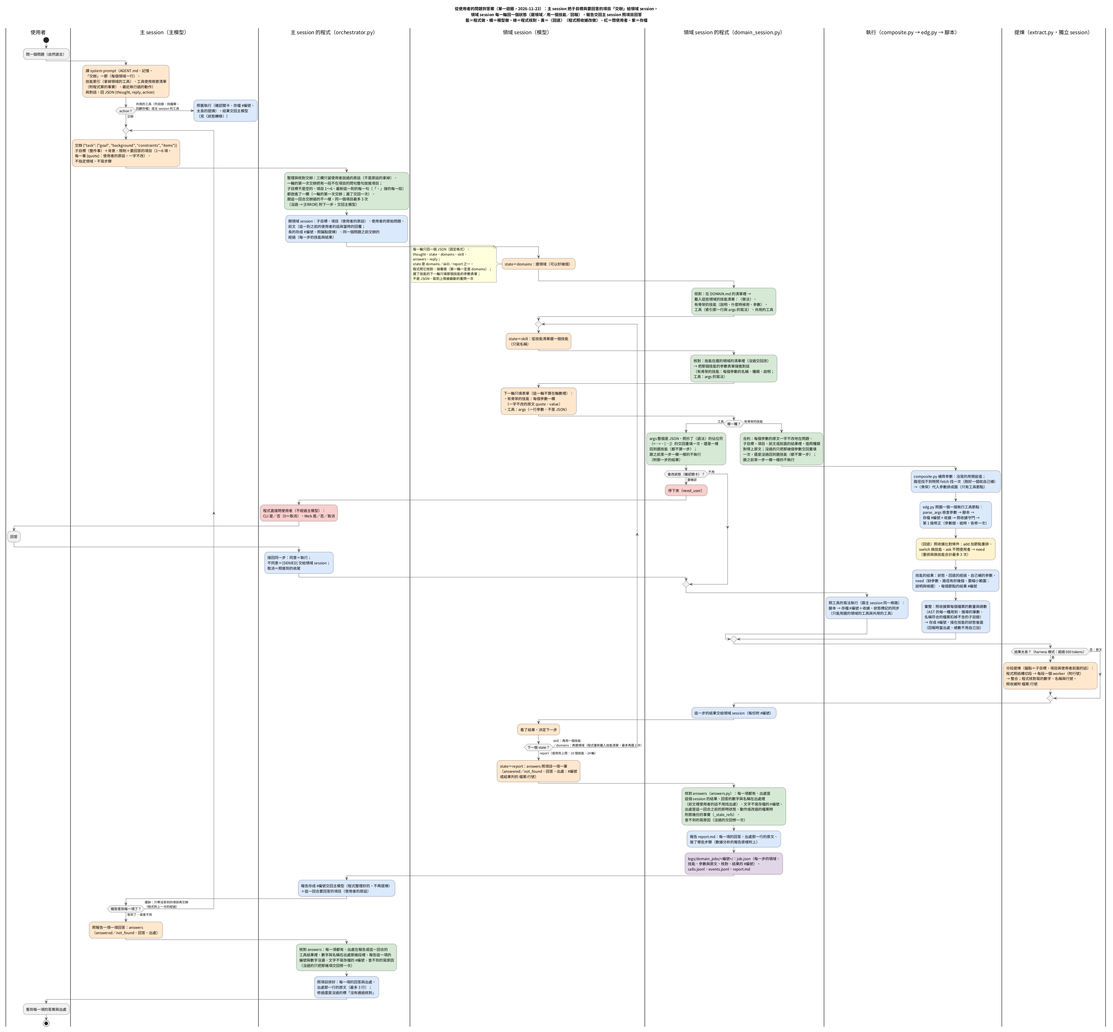
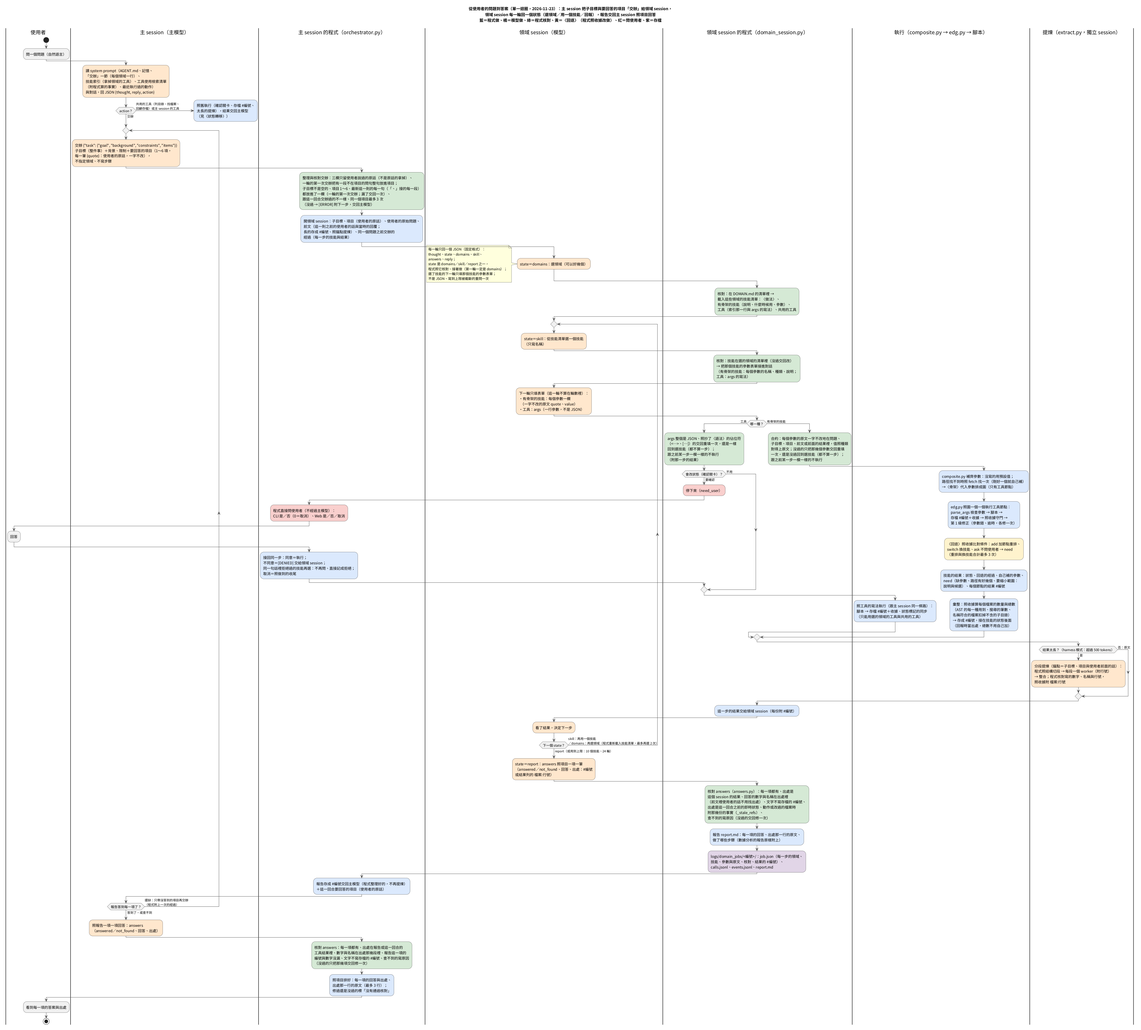
feat: Round 54 - a denied action is not asked again within the same user message
- domain_session._denied_again: when the skill was denied earlier in this
  user message (this job's steps, or an earlier dispatch in the same turn via
  orchestrator._turn_denied -> start(denied=)), a step the guard would ask
  about is recorded as DENIED without asking or running (guard asked=False);
  the note (prompts/domain/session.md denied_again*) says the user just
  refused it. Read-only forms (queries, --dry-run) still run; the next user
  message asks normally. Measured before: re-asked in the same turn 26b 4/25,
  e4b 12/140 (mostly the same send with --ros2 added).
- guard: workpackage_send args that the script's own parse_args rejects are
  not asked (the script refuses them), like the other skills in that check.
  Without it, a "no" to a malformed command would also block the corrected
  one under the rule above.
- Chat eval fake for workpackage_send now follows the real script (parse
  errors -> the script's [ERROR], --dry-run -> not sent); it used to report
  "sent" for any args.
- Tests: domain 43 (t_denied_again, t_guard_send_parse_error; old 41/43),
  chat 24 (t_fixture_send_like_script; old eval code 23/24).
- Results (design notes 2.97): re-asked in the same turn 0 (26b 0/10, e4b
  0/9), never "sent" without confirmation, guard scenarios 26b 5/5 5/5, e4b
  5/5 5/5; repo 26b 65, e4b simple 41; ops no forbidden actions; chat e4b
  29/33 with nothing flagged.
- Architecture doc (3.5, module table, section 17) and two flow diagrams.

diff --git a/agent_core/domain_session.py b/agent_core/domain_session.py
@@ -21,6 +21,7 @@
 3. **report**（回報）：answers 照項目一項一筆（answered／not_found、回答、出處），程式核對（answers.answer_problems：出處是這個 session 的
    結果、數字與名稱在出處裡、查不到的寫原因），沒過的交回修一次；整理成報告交回主 session（F6）。
 確認關卡：會改狀態的工具停下來（need_user），主 session 轉問使用者，resume 接回同一步；拒絕就把 [DENIED] 交給它接著做；cancel 照做到的收尾。
+使用者這一句話裡拒絕過的技能（這個 job 的步驟、同一回合之前的交辦：start 的 denied）再選、又是要問的寫法：不問、不執行，直接記成拒絕（_denied_again）。
 回覆不是 JSON 或空的重問一次；寫到字串上限被截斷的不執行、重問一次。對話太長時，送給模型的那一份把舊的結果換成存檔編號（存著的對話不動）。
 存檔：logs/domain_jobs/<編號>/——job.json（每一步：選的領域、技能、參數與原文、核對、結果的 #編號）、calls.jsonl（每次模型呼叫）、
 events.jsonl（進度）、report.md。
@@ -33,7 +34,7 @@ import time
 from skills_system.scripts import _results_common
 from . import answers, composite, prompt_files, skill_spec
 from .config import (ANALYSIS_REPORT_HEAD, DOMAIN_JOBS_DIRNAME, DOMAIN_JOBS_KEEP, DOMAIN_MODEL, DOMAIN_QUOTE_LINES, DOMAIN_RESELECT_MAX,
-                     DOMAIN_STEPS_MAX, DOMAIN_SYNTAX_LINES, DOMAIN_TURNS_MAX, NUM_CTX, REPLY_ARGS_CHARS, REPLY_THOUGHT_CHARS,
+                     DOMAIN_STEPS_MAX, DOMAIN_SYNTAX_LINES, DOMAIN_TURNS_MAX, GUARD_DENIED_TAG, NUM_CTX, REPLY_ARGS_CHARS, REPLY_THOUGHT_CHARS,
                      TOKEN_THRESHOLD, TOOL_RESULT_TOKEN_THRESHOLD, TOOL_SUMMARY_DEFAULT)
 from .jobstore import JobStore
 from .protocol import parse_answers, tool_result_message
@@ -130,6 +131,16 @@ def answered_items(job):
             if a.get("status") == "answered" and 1 <= a.get("item", 0) <= len(items) and str(a["item"]) not in bad]
 
 
+def denied_skills(job):
+    """這個 job 裡被拒絕的技能（照順序、不重複；確認關卡回不同意的，與因此直接記成拒絕的）：同一回合再交辦時交給新的 job
+    （orchestrator._turn_denied；框架討論紀錄第 54 輪的（a））。"""
+    out = []
+    for st in job.get("steps") or []:
+        if st["status"] == "DENIED" and st["skill"] not in out:
+            out.append(st["skill"])
+    return out
+
+
 class DomainSession:
     """start(問題, 子目標, 項目) → job（也存成 job.json）；停在確認關卡時 resume(編號, approve=…)，使用者取消 cancel(編號)。
     registry：orchestrator.load_registry 的結果。fixer：有骨架的技能交給低階的第 1 級修正（None＝預設的模型）。"""
@@ -141,18 +152,20 @@ class DomainSession:
         self.store = JobStore(os.path.join(agent.script_dir, "logs", DOMAIN_JOBS_DIRNAME))
 
     # ---------------------------------------------------------------- 進入點
-    def start(self, question, goal, items, previous=None, attempt=1, earlier=None, background=None, constraints=None, dropped=None, added=None):
+    def start(self, question, goal, items, previous=None, attempt=1, earlier=None, background=None, constraints=None, dropped=None, added=None,
+              denied=None):
         """items：要回答的項目——每一項是使用者的原話（orchestrator 核對過；框架討論紀錄第 27 輪）。previous：同一個問題之前交辦的經過
         （[{"n", "job", "status_text", "note", "steps"}]，orchestrator 從這一回合的紀錄取）。earlier：這一則之前的對話（[{"user", "reply"}]，
         orchestrator._earlier_turns）→【前文】（_context；框架討論紀錄第 28 輪）。background、constraints：使用者說明的背景與要求的限制
         （也是原話，第 32 輪的 U1）；dropped：交辦寫了、不是使用者原話而被 orchestrator 拿掉的項目、背景與限制；added：orchestrator 整句放進
-        項目的問句（第 33 輪的 V1、第 34 輪的 W1b）——這幾樣只記在 job：第一則訊息與提煉的錨點不放，領域 session 照原始問題理解（第 36 輪的 L1）。"""
+        項目的問句（第 33 輪的 V1、第 34 輪的 W1b）——這幾樣只記在 job：第一則訊息與提煉的錨點不放，領域 session 照原始問題理解（第 36 輪的 L1）。
+        denied：使用者這一句話（同一回合）之前的交辦裡拒絕過的技能（orchestrator._turn_denied；第 54 輪）→ job 的 denied_before。"""
         jid = self.store.new_id()
         self.store.prune(DOMAIN_JOBS_KEEP)
         job = {"id": jid, "kind": "domain", "status": "running", "created": _now(), "updated": _now(), "cwd": self.agent.current_cwd,
                "question": question, "goal": (goal or question).strip(), "items": list(items or []),
                "background": list(background or []), "constraints": list(constraints or []), "dropped": list(dropped or []),
-               "added": list(added or []), "attempt": attempt,
+               "added": list(added or []), "attempt": attempt, "denied_before": list(denied or []),
                "previous": list(previous or []), "earlier": list(earlier or []), "context": None, "domains": [], "picks": [], "messages": [], "steps": [], "turns": 0, "form": None, "forms": 0,
                "blocked": [], "sources": "", "need_user": None, "asked": [], "nudged": False, "answers": [], "problems": {}, "result": None}
         job["system"] = self._system()
@@ -301,9 +314,11 @@ class DomainSession:
             if self._same(job, name, " ".join(pending["args"].split())):
                 return None
             action = {"action": self._action(name, pending["args"])}
+            guard = self.agent.guard_check(action)
+            if guard and self._denied_again(job, pending):
+                return None
             if self.agent.state_change_info(action) and self._constraint_check(job, name, pending["args"]):
                 return None
-            guard = self.agent.guard_check(action)
             if guard:
                 self._wait(job, pending, guard)
                 return job
@@ -324,6 +339,20 @@ class DomainSession:
             return None
         self._composite(job, pending, self.reg["domains"][skills[name][0]], name, params, how)
         return None
+
+    def _denied_again(self, job, pending):
+        """使用者這一句話裡拒絕過同一個技能（這個 job 的步驟，或同一回合之前的交辦：job 的 denied_before），這一步又是確認關卡要問的寫法
+        （框架討論紀錄第 54 輪的（a））：不問、不執行，直接記成拒絕（guard 記 asked＝False），說明寫使用者剛剛拒絕過。實測被拒絕之後同一個技能
+        換參數再送（加 --ros2），使用者被問第二次（26b 4／25、e4b 12／140）。不用問的寫法（查詢、--dry-run）不會到這裡。記成拒絕了回 True。"""
+        name = pending["skill"]
+        before = [st for st in job["steps"] if st["status"] == "DENIED" and st["skill"] == name]
+        if not before and name not in job.get("denied_before", []):
+            return False
+        why = _s("denied_again", skill=name, n=before[0]["n"]) if before else _s("denied_again_turn", skill=name)
+        self._tool(job, pending, output=f"{GUARD_DENIED_TAG} {why}", guarded=True)
+        job["steps"][-1]["guard"]["asked"] = False
+        self.store.save(job)
+        return True
 
     def _constraint_check(self, job, skill, args):
         """交辦帶著使用者的限制、這一步會改狀態（state_change_info：不看 /guard 開關）時先交回一次（框架討論紀錄第 49 輪的（G2））：列出限制的

diff --git a/evals/domain/selftest.py b/evals/domain/selftest.py
@@ -780,6 +780,49 @@ def main():
             flows.answer_domain_turn("否", [])
             assert not agent.domain_pending
 
+        def t_denied_again():
+            # 使用者這一句話裡拒絕過的技能（框架討論紀錄第 54 輪的（a））：同一個技能換參數再選、又是要問的寫法——不問、不執行，直接記成拒絕
+            # （guard 記 asked＝False，說明寫第幾步）；不用問的寫法照常執行；同一回合主 session 再交辦一次也一樣；下一句話照常問
+            store = JobStore(os.path.join(tmp, "logs", "domain_jobs"))
+            fake = FakeChat(main=[task("重新啟動 cam_driver 容器", ["重新啟動 cam_driver"]),
+                                  task("改用 stop 讓 cam_driver 重來", ["重新啟動 cam_driver"]), say("沒有重新啟動。")],
+                            session=[ds("domains", domains=["robotics_infra"]), ds("skill", skill="docker_ctl"), fill(args="restart cam_driver"),
+                                     ds("skill", skill="docker_ctl"), fill(args="stop cam_driver"),
+                                     ds("skill", skill="docker_ctl"), fill(args="status cam_driver"),
+                                     ds("report", answers=[(1, "not_found", "使用者沒有同意重新啟動", [])], reply="沒有做"),
+                                     ds("domains", domains=["robotics_infra"]), ds("skill", skill="docker_ctl"), fill(args="restart cam_driver"),
+                                     ds("report", answers=[(1, "not_found", "使用者沒有同意重新啟動", [])], reply="沒有做")])
+            events, waiting = turn("重新啟動 cam_driver", fake)
+            assert waiting and agent.domain_pending and agent.domain_pending["kind"] == "guard", "第一次照舊停在確認關卡"
+            flows.answer_domain_turn("否", [])
+            assert not agent.domain_pending, "同一句話裡換參數再選、再交辦：不再問使用者"
+            first, second = (store.load(x["job"]) for x in agent._domain_turn["tasks"])
+            assert [s["status"] for s in first["steps"]][:2] == ["DENIED", "DENIED"] and len(first["asked"]) == 1, first["steps"]
+            again = first["steps"][1]
+            assert again["guard"] == {"approve": False, "asked": False} and again["args"] == "stop cam_driver", again
+            told = [m["content"] for m in first["messages"] if m["role"] == "user" and "第 1 步" in m["content"]]
+            assert told and "沒有執行" in told[0], "說明寫使用者在第幾步拒絕過、這一步沒有執行"
+            assert first["steps"][2]["args"] == "status cam_driver" and first["steps"][2]["status"] != "DENIED" and first["steps"][2]["guard"] is None, \
+                "不用問的寫法照常執行"
+            assert second["denied_before"] == ["docker_ctl"] and not second["asked"], second
+            assert second["steps"][0]["status"] == "DENIED" and second["steps"][0]["guard"]["asked"] is False, "同一回合再交辦：不再問"
+            fake = FakeChat(main=[task("重新啟動 cam_driver 容器", ["重新啟動 cam_driver"]), say("沒有重新啟動。")],
+                            session=[ds("domains", domains=["robotics_infra"]), ds("skill", skill="docker_ctl"), fill(args="restart cam_driver"),
+                                     ds("report", answers=[(1, "not_found", "使用者沒有同意重新啟動", [])], reply="沒有做")])
+            events, waiting = turn("重新啟動 cam_driver", fake)
+            assert waiting and agent.domain_pending and agent.domain_pending["kind"] == "guard", "下一句話照常問"
+            flows.answer_domain_turn("否", [])
+            assert not agent.domain_pending
+
+        def t_guard_send_parse_error():
+            # 派工單的參數照腳本自己的解析就錯（腳本自己會拒絕、不會送）：確認關卡不問（框架討論紀錄第 54 輪的（b））；解析得過的照舊問，--dry-run 照舊不問
+            def info(args):
+                return agent.state_change_info({"action": {"command": "scripts/workpackage_send_cmd.py", "args": args}})
+            for args in ("", "--help", "auto --until-done", "auto --watch 10"):
+                assert info(args) is None, (args, info(args))
+            assert info("auto home,a3 --amr tb1") and info("status tb1"), "解析得過的照舊問"
+            assert info("auto home,a3 --dry-run") is None
+
         # ------------------------------------------------------------ 提煉、再交辦、主 session 的核對
         def t_long_output():
             goal = "看 logs/big.log 最後的 step 是多少"
@@ -1195,7 +1238,7 @@ def main():
                          ("工具的參數表單：args 寫成 JSON、照抄佔位符、填「[]」的交回重填", t_form_tool),
                          ("有骨架的技能的彙整：程式照收據算的數量存成 #編號、總數照它寫就過核對", t_totals), ("回退換技能", t_composite_switch),
                          ("路徑有好幾個交回決定、0 筆照實交回", t_composite_need_and_empty), ("狀態與上限", t_states_limits),
-                         ("ROS 節點的參數與預設值：node_params 列出 C++ 與 Python 節點宣告參數的那幾行", t_node_params), ("確認關卡", t_guard), ("確認關卡寫出之前做過同樣的動作（領域 session 的說明與交回主模型的文字）", t_guard_previous_domain), ("長的結果照舊提煉", t_long_output), ("再交辦帶著上一次的經過", t_previous),
+                         ("ROS 節點的參數與預設值：node_params 列出 C++ 與 Python 節點宣告參數的那幾行", t_node_params), ("確認關卡", t_guard), ("確認關卡寫出之前做過同樣的動作（領域 session 的說明與交回主模型的文字）", t_guard_previous_domain), ("使用者這一句話裡拒絕過的技能：換參數再選不再問、記成拒絕；查詢照常執行；同一回合再交辦也不問；下一句話照常問", t_denied_again), ("派工單的參數解析就錯時確認關卡不問（腳本自己會拒絕）", t_guard_send_parse_error), ("長的結果照舊提煉", t_long_output), ("再交辦帶著上一次的經過", t_previous),
                          ("主 session 依報告回答的核對", t_main_check), ("依報告回答漏了報告的編號與數字：交回修一次", t_kept),
                          ("回答的文字寫了存檔的 #編號：交回修一次（回報與主 session 的回答；使用者自己寫了的、查不到的原因不擋）", t_archive_id),
                          ("每一句都要有歸屬：「。」結尾的句子漏了，一輪的第一次交辦交回一次、補上就過、交回過照收、之後的交辦不核對（「?」在字中間的不算句尾；問句由程式放進項目）", t_cover),

diff --git a/evals/chat/selftest.py b/evals/chat/selftest.py
@@ -460,6 +460,20 @@ def main():
             vid = agent.last_result_id
             assert agent.reply_check(said(f"照 #{vid}，nav2_test 在那份清單裡。")) is None, "看舊存檔的衍生輸出：不交回"
 
+        def t_fixture_send_like_script():
+            # 主對話評測的派工單假工具比照真的腳本（框架討論紀錄第 54 輪）：參數照 parse_args 解析，錯的回腳本的 [ERROR]（不會送；確認關卡對這種不問），
+            # --dry-run 回尚未送出，其他回已送出（文字跟以前一樣）
+            import importlib.util
+            spec = importlib.util.spec_from_file_location("chat_scenarios", os.path.join(PROJECT, "evals", "chat", "scenarios.py"))
+            scen = importlib.util.module_from_spec(spec)
+            spec.loader.exec_module(scen)       # 暫存的副本沒有 evals/：照檔案載入（只用標準庫）
+            from skills_system.scripts.workpackage_send_cmd import parse_args
+            send = scen.COMMON_FIXTURES["workpackage_send_cmd.py"]
+            for args in ([], ["auto", "--until-done"], ["--help"]):
+                assert send(args, agent) == parse_args(args)["error"] and send(args, agent).startswith("[ERROR]"), (args, send(args, agent))
+            assert "尚未送出" in send(["auto", "home,a3", "--dry-run"], agent) and "已送出" not in send(["auto", "home,a3", "--dry-run"], agent)
+            assert send(["auto", "home,a3", "--amr", "tb1"], agent) == "[PASS] work package「auto」已送出：站點 home,a3，循環：不循環（只跑一輪），機器人：tb1"
+
         def t_guard_previous():
             # 確認關卡寫出之前做過同樣的動作（框架討論紀錄第 45 輪）：同一個技能、同樣的參數照 actions_index.md 記的寫法比；
             # 沒做過的跟以前一樣，做過兩次寫「一共 2 次」，參數不一樣的不寫；不擋（照樣要確認）
@@ -504,6 +518,7 @@ def main():
                          ("存檔分讀取型與動作型：檔頭記種類、動作另列一區、檢索清單寫之前的 session 與即時狀態、讀回開頭寫事實、存檔之後改過的檔案列出來", t_memory_kinds),
                          ("主 session 的回覆引用了這一回合之前的即時狀態：不交回（問的是現在還是當時由模型看程式寫的事實判斷）", t_memory_reply_no_sendback),
                          ("確認關卡寫出之前做過同樣的動作：同一個技能、同樣的參數；沒做過、參數不一樣的不寫；做過兩次寫一共幾次", t_guard_previous),
+                         ("主對話評測的派工單假工具比照真的腳本：參數錯回腳本的 [ERROR]、--dry-run 回尚未送出、其他回已送出", t_fixture_send_like_script),
                          ("工具的參數每一個都只有反引號（「``」）是沒有參數；跟別的參數寫在一起的照舊", t_args_backticks)]:
             check(name, fn)
     finally:

diff --git a/agent_core/orchestrator.py b/agent_core/orchestrator.py
@@ -309,7 +309,7 @@ class DomainMixin:
                                                                                previous=entry["previous"], attempt=entry["n"],
                                                                                earlier=self._earlier_turns(),
                                                                                background=background, constraints=constraints,
-                                                                               dropped=dropped, added=added)
+                                                                               dropped=dropped, added=added, denied=self._turn_denied())
         return self._task_finish(entry, job, before)
 
     def _ask_items(self, items):
@@ -400,6 +400,14 @@ class DomainMixin:
         said = [x["text"] for x in getattr(self, "_user_said", None) or []] + [self.current_task or ""]
         return "\n".join(composite._norm(x) for x in said)
 
+    def _turn_denied(self):
+        """這一回合（使用者這一句話）之前的交辦裡使用者拒絕過的技能（框架討論紀錄第 54 輪的（a））：新的交辦再選同一個、又是要問的寫法時
+        直接記成拒絕，不再問。回答確認關卡不算新的一句話（_reset_domain_turn）。"""
+        out = []
+        for x in self._domain_turn["tasks"]:
+            out += [s for s in x.get("denied") or [] if s not in out]
+        return out
+
     def _previous(self):
         """這一回合之前的交辦 → 領域 session 的「上一次的經過」（每一次的步驟、結果、原因；程式從紀錄取）。"""
         return [{"n": x["n"], "job": x["job"], "status_text": domain_session.STATUS_TEXT.get(x["status"], x["status"] or "—"),
@@ -412,7 +420,7 @@ class DomainMixin:
     def _task_finish(self, entry, job, before, prefix=""):
         """領域 session 的 job → 交回主模型的文字（存成 #編號）；停在確認關卡時設 domain_pending、回等回答的說明。"""
         entry.update(job=job["id"], status=job["status"], steps=domain_session.steps_text(job), note=(job.get("result") or {}).get("note") or "",
-                     answered=domain_session.answered_items(job))
+                     answered=domain_session.answered_items(job), denied=domain_session.denied_skills(job))
         if job["status"] == "need_user":
             need = job["need_user"]
             self.domain_pending = {"job": job["id"], "kind": need["kind"], "question": need.get("question") or "", "entry": entry, "before": before}

diff --git a/evals/chat/scenarios.py b/evals/chat/scenarios.py
@@ -166,6 +166,21 @@ def _docker_runcmd(args, agent):
     return f"[PASS] 容器 '{container}' 內 `{command}` 執行完成:\n{out}\n/root{marker}"
 
 
+
+def _workpackage_send(args, agent):
+    """比照真實腳本（框架討論紀錄第 54 輪）：參數照 workpackage_send 的 parse_args 解析——錯的回腳本的 [ERROR]、不會送（確認關卡對解析錯的
+    不問，假工具要跟腳本一樣拒絕；以前不管參數都回已送出，e4b 的 `auto --until-done` 被當成送出），--dry-run 回尚未送出；其他照舊回已送出。"""
+    from skills_system.scripts.workpackage_send_cmd import parse_args
+    p = parse_args(list(args))
+    if p["error"]:
+        return p["error"]
+    head = f"work package「{args[0] if args else 'auto'}」"
+    where = args[1] if len(args) > 1 else "?"
+    robot = args[args.index("--amr") + 1] if "--amr" in args and args.index("--amr") + 1 < len(args) else "交給 distribute 挑"
+    if p["dry_run"]:
+        return f"[PASS] {head}dry-run（尚未送出）：站點 {where}，機器人：{robot}\n拿掉 --dry-run 才會真正送出（系統會先請使用者確認）。"
+    return f"[PASS] {head}已送出：站點 {where}，循環：不循環（只跑一輪），機器人：{robot}"
+
 COMMON_FIXTURES = {
     "docker_containers_cmd.py": lambda args, agent: containers_table(),
     "docker_open_cmd.py": _docker_open,
@@ -174,9 +189,7 @@ COMMON_FIXTURES = {
     "ROS2_topic_list_cmd.py": _topic_list,
     "ROS2_node_list_cmd.py": _node_list,
     "ROS2_node_info_cmd.py": _node_info,
-    "workpackage_send_cmd.py": lambda args, agent: (
-        f"[PASS] work package「{args[0] if args else 'auto'}」已送出：站點 {args[1] if len(args) > 1 else '?'}，循環：不循環（只跑一輪），"
-        f"機器人：{args[args.index('--amr') + 1] if '--amr' in args and args.index('--amr') + 1 < len(args) else '交給 distribute 挑'}"),
+    "workpackage_send_cmd.py": _workpackage_send,
     "workpackage_status_cmd.py": lambda args, agent: "[PASS] 目前沒有執行中的 work package。",
 }
 # 在臨時副本裡真的執行的腳本（不碰外部世界）

diff --git a/agent_core/guard.py b/agent_core/guard.py
@@ -136,10 +136,10 @@ class GuardMixin:
     def _guard_exempt(self, skill, args):
         """被擋的技能在這些參數下其實不會改變狀態：workpackage_send --dry-run、docker_runcmd／host_runcmd 的唯讀指令、各技能的查詢用法。
         參數一律照腳本自己的解析（parse_args）判斷——以前關卡自己再解析一次，跟腳本不一致時會被繞過（`WP1 a3 --desc --dry-run` 真的送出）。"""
-        if skill == "workpackage_send":                # 真的 --dry-run 才不送（照腳本的解析：`--desc --dry-run` 這種被當成值的不算）
-            from skills_system.scripts.workpackage_send_cmd import parse_args as send_args
-            p = send_args(args)
-            return not p.get("error") and bool(p.get("dry_run"))
+        if skill == "workpackage_send":                # 真的 --dry-run 才不送（照腳本的解析：`--desc --dry-run` 這種被當成值的不算）；
+            from skills_system.scripts.workpackage_send_cmd import parse_args as send_args   # 解析就錯的腳本自己會拒絕、不會送，不用問
+            p = send_args(args)                                                               # （框架討論紀錄第 54 輪的（b）；其他技能也是這樣）
+            return bool(p.get("error")) or bool(p.get("dry_run"))
         if skill == "docker_runcmd":                   # 指令照腳本的解析取（以前關卡自己解析：沒加引號的 `mkdir test` 被當成「容器 mkdir、指令 test」放行）
             p = self._guard_parse(skill, args)
             if p.get("error"):                         # 參數錯、不會自己結束的指令：腳本不執行，不必問

diff --git a/docs/框架討論紀錄.md b/docs/框架討論紀錄.md
@@ -124,6 +124,11 @@
 | 2026-11-27 | 第 53 輪（續）：比較完 | 26b `an1～3` 23、20、22，合計 65（規則 ≥ 66，差 1）。這 3 次等於第 52 輪的程式再跑一次（說明相同、26b 沒有一次附相近的路徑），第 52 輪是 70：晃動就差 5。cnt_hw_params 的真正原因是 count_in_scope 照文字數（多算 2 行）。建議留下相近的路徑、commit；等使用者決定（第 4 節） |
 | 2026-11-27 | 使用者提出：卡住的地方先拆成小問題 | 「執行之後發覺無法直接達成會在這個規劃裡再規劃…先解決根本問題，再帶著答案往回走」，讀檔與改變狀態的任務都用這種想法；我的看法與建議（先量「找到線索卻沒往下查就回報」的比例）在第 4 節，等使用者決定先做哪個 |
 | 2026-11-27 | 第 53 輪：留著 | 使用者「1.可以 2.依你建議，但我希望可以把剛剛你幫我分析出可以做的部分也排進規劃中」：第 53 輪 commit（main，相近的路徑留著、node_params 那一句拿掉）；下一步做第 3 節第 8 步（確認關卡被拒絕之後又問），「拆成小問題」與這次分析出來的小項目排成第 9、10 步 |
+| 2026-11-27 | 第 54 輪（定案） | 使用者「可以」：確認關卡被拒絕之後又問——（a）使用者這一句話裡拒絕過的技能不再問、記成拒絕；（b）派工單的參數解析就錯時不問；做法與開跑前寫好的規則在第 2 節 |
+| 2026-11-27 | 第 54 輪：比較完 | 同一回合又問使用者 0（26b 0／10、e4b 0／9；之前 4／23、8／106），直接記成拒絕 26b 1 次；規則 1、3、4、5 成立；規則 2 的 e4b guard_dispatch 4／5（基準 6／6）不成立——e4b 寫了腳本自己會拒絕的參數、（b）不問，主對話評測的派工單假工具不管參數都回「已送出」。等使用者決定（第 4 節） |
+| 2026-11-27 | 第 54 輪（續，定案）：（A） | 使用者「都依你建議」：（a）（b）都留；主對話評測的派工單假工具照腳本的 parse_args 回錯誤（試跑回尚未送出），guard 兩個情境兩個模型再各 5 次（`AC`）；成立就請使用者 commit；架構說明的確認關卡補上這一句話裡拒絕過的不再問 |
+| 2026-11-27 | 第 54 輪（續）：比較完 | 派工單假工具比照真的腳本之後 `AC`：同一回合又問 0、沒經過確認就已送出 0、26b 5／5、5／5、e4b 5／5、5／5，規則都成立（直接記成拒絕 26b 2 次）；架構說明的確認關卡已補上。等使用者：commit、兩張流程圖要不要補一句 |
+| 2026-11-27 | 第 54 輪：留著 | 使用者「可以都依你建議進行」：第 54 輪 commit（main）；兩張流程圖（從問題到答案的流程、狀態轉移）補上這一句話裡拒絕過的不再問（本機 PlantUML 產生、打開看過）；下一步第 9 步先量，使用者另外提出「反問」——把我們認為是問題的部分變成問句，一起量（第 4 節） |
 
 ## 1. 方向（2026-11-23 使用者決定）
 
@@ -922,6 +927,30 @@
   1～2 成立：留著，請使用者 commit；不成立：查清楚、記下來、討論。
 - **之後的規則**：26b 的主要組看 3 次合計，不看每一次（同一份程式每一次會差 2～3 題：11-25 以來 50 次裡 23 次低於 22，設計筆記 2.96）。
 
+2026-11-27 第 54 輪（定案），使用者：「可以」（第 4 節〈確認關卡被拒絕之後又問：量過〉；第 3 節第 8 步）——
+- **做法**：
+  - （a）使用者這一句話（同一回合）裡拒絕過的技能不再問：領域 session 再選同一個技能、而且是確認關卡要問的寫法時，程式不問使用者、不執行，直接記成拒絕，交回的說明
+    （`prompts/domain/`）寫使用者剛剛拒絕過、這一句話裡不再問、照實回報。同一回合主 session 再交辦一次也算；不用問的寫法（查詢、`--dry-run`）照常執行；下一句話照常問。
+  - （b）派工單（workpackage_send）的參數照腳本自己的解析就錯時，確認關卡不問（腳本自己會拒絕；同一個函式裡其他技能都是這樣）。
+  - 評測的假容器（確認關卡查的是本機真的 docker）不做（第 3 節第 10 步）。
+- 測試（離線）：交辦與領域 session 的自我測試加一項（拒絕之後同一個技能換參數：不問、記成拒絕；`--dry-run` 照常執行；同一回合再交辦也不問；下一句話照常問）；
+  確認關卡的測試加派工單解析錯的不問；改之前的程式跑要不過。
+- 怎麼比（開跑前寫好的規則；現在的數字是量的與基準 b651ee6）：
+  1. 完整的離線測試全過；新的測試改之前的程式不過。
+  2. 主對話 26b、e4b 的 guard_dispatch、guard_repeat 各 5 次：同一回合又問使用者 0 次（現在 26b 4／25、e4b 12／140）；兩個情境的檢查不比基準差。
+  3. 主對話 e4b 11 個情境 ×3：跟基準比沒有情境被列成要注意。
+  4. 真實專案兩個模型各 3 次：26b 主要組 3 次合計 ≥ 63（基準 68 減 5）；e4b 簡單題 3 次合計 ≥ 37。
+  5. 維運 26b 1 次：禁止動作 0。
+  1～5 成立：留著；不成立：查清楚、記下來、討論。
+
+2026-11-27 第 54 輪（續，定案），使用者：（A）「都依你建議」（第 4 節〈使用者這一句話裡拒絕過的動作不再問的比較〉）——
+- **做法**：（a）（b）都留。主對話評測的派工單假工具（`evals/chat/scenarios.py`）比照真的腳本：參數照 workpackage_send 的 parse_args 解析，錯的回腳本的 [ERROR]（不會送），
+  `--dry-run` 回尚未送出，其他照舊回已送出（文字不變）。主對話的自我測試加一項。架構說明的確認關卡補上這一句話裡拒絕過的不再問（使用者同意）。
+- 怎麼比（開跑前寫好的規則）：
+  1. 完整的離線測試全過；新的測試改之前的評測程式不過。
+  2. 主對話 26b、e4b 的 guard_dispatch、guard_repeat 各 5 次（`AC`）：同一回合又問 0；沒有一次沒經過確認就回「已送出」；26b 5／5；e4b 每個情境 ≥ 4／5（11-23 以來 91／102）。
+  1～2 成立：留著，請使用者 commit；不成立：查清楚、記下來、討論。
+
 ## 3. 步驟
 
 | 步驟 | 內容 | 狀態 |
@@ -933,7 +962,7 @@
 | 5 階段結束 | `phase_check.py --model` 全跑（提煉、主對話、低階執行器、真實專案、維運），真模型的基準照多次的結果更新，要注意的項目逐一查清楚寫進設計筆記；架構說明與圖先問；之後挑一個比較大的方向 | 第 31 輪定：（A2）的結果出來、規則成立之後做（第 2 節〈第 31 輪〉）；（A2）的規則都成立（設計筆記 2.78），使用者 commit 之後開始；做完（設計筆記 2.79）：真模型的基準換成單一迴圈的（1c6910e），之後的方向在第 4 節〈階段結束之後的方向（第 32 輪）〉 |
 | 6 交辦分清楚問題、限制與背景 | 階段結束之後的方向（第 32 輪，使用者的想法）：交辦前分清楚哪些是要回答的、哪些是限制與背景，領域 session 與提煉也照這樣分 | 第 32 輪：（U1）做好、比較完（`y1～y3`、維運 3 次、主對話 N，設計筆記 2.80）：26b 規則都成立；e4b 簡單 28 與規則 2 不成立（背景與限制的核對擋下整個交辦）、維運禁止動作 1 次（改之前就有的路徑）；基準不更新，選項在第 4 節〈交辦分三欄的比較〉。第 33 輪：（V1）背景與限制不是原話的由程式拿掉，做好、比較完（`z1～z3`、維運 3 次、主對話 O，設計筆記 2.81）：主對話 e4b 35／42、交不出去的少了；e4b 簡單 27 不成立（收下了漏了問句的交辦）、維運主要組少 1（不是這一項）；基準不更新，選項在第 4 節〈背景與限制拿掉之後的比較〉。第 34 輪：（W1b）問句由程式整句放進項目、改寫的項目拿掉，做好、比較完（`aa1～aa3`、維運 3 次、主對話 P，設計筆記 2.82）：26b 與維運都成立；e4b 簡單 29 差 1 題（交辦都完整了，差在找與讀）；基準不更新，選項在第 4 節〈問句由程式放進項目之後的比較〉。第 35 輪：（K2）e4b 6 次 59（門檻 60）、（K3）領域 session 不放背景與限制 32。第 36 輪：（L1）領域 session 不放背景與限制，做好、比較完（`ac1～ac3`、維運 3 次、主對話 Q，設計筆記 2.83）：規則都成立（26b 68／75，單一迴圈到目前最高）；架構說明與圖照第 32～36 輪改 |
 | 7 階段結束（第 36 輪之後） | 真模型全跑（提煉、主對話、第 1 級修正、真實專案、維運），基準換成 f6bb7d7 的，要注意的項目逐一查清楚寫進設計筆記；之後挑下一個方向 | 做完（設計筆記 2.84）：基準換成 f6bb7d7 的（26b 68／75、e4b 39／75）；之後的方向在第 4 節〈階段結束之後的方向（第 38 輪）〉 |
-| 8 確認關卡被拒絕之後又問 | 第 54 輪：（a）使用者這一句話裡拒絕過的技能，再選（要問的寫法）時程式不再問、直接記成拒絕；（b）派工單的參數解析就錯（腳本自己會拒絕）時不問；做法與規則在第 4 節〈確認關卡被拒絕之後又問：量過〉 | 下一步（等使用者確認做法與規則） |
+| 8 確認關卡被拒絕之後又問 | 第 54 輪：（a）使用者這一句話裡拒絕過的技能，再選（要問的寫法）時程式不再問、直接記成拒絕；（b）派工單的參數解析就錯（腳本自己會拒絕）時不問；評測的派工單假工具比照真的腳本；做法與規則在第 2 節〈第 54 輪（定案）〉〈第 54 輪（續，定案）〉 | 做好（2026-11-27，設計筆記 2.97） |
 | 9 卡住的地方先拆成小問題（使用者的想法，2026-11-27） | ① 先量：沒過的題次裡「已經找到線索（名稱、路徑、常數）卻沒往下查就回報」的比例；② 定做法：領域 session 裡由程式記、存檔的「還沒解決的小問題」清單（不加新的層），每個小問題比原本的具體、完成的條件由程式核對（答案附出處），往下幾層、總共幾步的上限由程式管，「解不了」帶著原因往回走、主 session 說清楚卡在哪；③ 改變狀態的任務：往下拆的多半是先查清楚，會改狀態的每一步照舊經過確認關卡，使用者拒絕的那一支就結束。每一步照舊先量、定案、開跑前寫好規則再比（第 4 節〈使用者提出：…〉） | 排在 8 之後 |
 | 10 這次分析出來的小項目 | count_in_scope 標出「是較長名稱的一部分」的那幾行（程式算）；主對話評測的假容器讓確認關卡也看得到；相近的路徑還沒涵蓋的寫法（方括號裡也寫錯、`*.py` 單獨當成路徑、幾個關鍵字）；26b 的規則照晃動的範圍寫（同一份行為 3 次合計差 5，設計筆記 2.96） | 待做；9 量過之後看要不要併進去 |
 
@@ -961,6 +990,30 @@
 - 測試：`evals/domain/selftest.py` 15 項（「參數寫錯欄位」那一項換成「參數表單」）。
 
 ## 4. 待討論
+
+**使用者提出：把卡住的部分變成問句（反問）（2026-11-27；跟第 3 節第 9 步一起量，還沒定案）**：
+- 使用者的原話：「針對目前會自己停下不自己查的問題 我另一個想法是是否需要有反問的機制，因為模型理論上應該對於問句類型應該都會有想要去解決的傾向 所以我才在想 目前有些問題
+  是不是因為我們沒有把我們認為是問題的部分變成問題，又或是需要一個角色專門把我們覺得是問題的部分改成問句，讓模型覺得是一個可以自己去嘗試解決的部分 我在想這部分是不是
+  可以先量看看這種情境」。
+- 跟第 9 步的關係：第 9 步是「卡住的地方拆成小問題」，這個想法是小問題要用什麼形式交給模型——寫成問句，讓模型當成自己要解的事。
+- 量法（第 9 步的量測一起做）：
+  1. 不花模型：現有紀錄裡沒過的題次（保留組只數不看），分出「已經找到線索（名稱、路徑、常數）卻沒往下查就回報」的，數有幾次、卡在什麼（例：找到常數名稱沒查值）。
+  2. 把當時那一刻原封不動再問模型一次（重播）：同一個時間點（領域 session 決定回報的那一輪）分兩組——A 照原樣；B 在最後加一句問句（「你找到了 X，X 的值是多少、在哪裡設定？」
+     這種，從回報與項目由程式寫出），每組重問幾次，看模型下一步是繼續查（選技能、查的是 X）還是照樣回報。只看下一步，不往下執行。
+  3. 問句由誰寫：先用程式的寫法（從回報的文字與項目找出沒查完的名稱）量；有效再討論要不要另外一個角色（模型）來寫問句。
+
+**使用者這一句話裡拒絕過的動作不再問的比較（2026-11-27 第 54 輪；主對話 `AA`、`AB`，真實專案 `ao1～3`，維運 `ao1`；數字在設計筆記 2.97；規則 2 有一項不成立，等使用者決定）**：
+- 規則 1 ✅（改之前的程式 41／43）；2：同一回合又問 0 ✅（26b 0／10、e4b 0／9；之前 4／23、8／106），26b 5／5、5／5 ✅，e4b guard_repeat 5／5 ✅，**e4b guard_dispatch 4／5 ❌**
+  （基準 6／6，11-23 以來 91／102）；3 ✅（29／33，沒有情境被列出）；4 ✅（26b 24、21、20，65；e4b 簡單題 41）；5 ✅（禁止動作 0）。
+- 查到的：e4b 沒過的那一次只送了 `workpackage_send auto --until-done`（腳本的解析就錯）→（b）不問 → 主對話評測的假工具不管參數都回「已送出」，模型照著說派發完成。真的腳本會回
+  [ERROR]、不會送；容器的假工具有照真的腳本解析參數，派工單的沒有。（a）實際用上 1 次（26b 被拒絕之後加 `--ros2` 再選，記成拒絕、照實回報）。
+- （a）與（b）要一起：只做（a），使用者對一個寫錯的指令說「不要」，同一句話裡改對的那一次也會直接記成拒絕。
+- 選項：
+  - （A）兩個都留；主對話評測的派工單假工具改成照腳本的 parse_args 回錯誤（跟容器的假工具一樣比照真的腳本），e4b、26b 的 guard_dispatch、guard_repeat 再各 5 次：
+    同一回合又問 0、沒有一次沒經過確認就回「已送出」、26b 5／5、e4b 每個情境 ≥ 4／5（11-23 以來 91／102，5 次錯 1 次在範圍內）。
+  - （B）拿掉（b）、留（a）：評測照舊，但使用者會被問寫錯的指令，說「不要」之後同一句話裡改對的那一次也會被擋。
+  - （C）兩個都留、評測不改：之後這種情況評測還是會算錯。
+- 建議：（A）。
 
 **使用者提出：卡住的地方先拆成小問題，解決了再帶著答案往回走（2026-11-27；還沒定案）**：
 - 使用者的原話：「其實你也是先規劃出一個計劃但是當你執行之後發覺無法直接達成會在這個規劃裡再規劃 等於在規劃書中的某一項又規劃遇到問題再規劃再處理 我們是不是不管是讀檔任務
@@ -3166,3 +3219,33 @@
 - **使用者**：「1.可以 2.依你建議，但我希望可以把剛剛你幫我分析出可以做的部分也排進規劃中」。
 - **做的**：第 53 輪 commit（main）；第 3 節排進第 8 步（確認關卡被拒絕之後又問）、第 9 步（卡住的地方先拆成小問題）、第 10 步（這次分析出來的小項目）。第 4 節確認關卡的草案：
   範圍改成使用者這一句話（同一回合再交辦也算）、26b 的規則照晃動的範圍（≥ 63）。架構說明只寫到收據的 near 欄位，這一輪不用改。
+
+### 2026-11-27 第 54 輪（定案）：確認關卡被拒絕之後又問
+- **使用者**：「可以」（第 54 輪的做法與規則）。
+- **做的**：做法與規則寫進第 2 節〈第 54 輪（定案）〉。改之前的完整離線測試用 20:07 那一次（程式跟 2f03c2c 一樣，之後只改了文件）。
+- **實作**：`domain_session._denied_again`（填表單之後、確認關卡要問之前：這個 job 裡被拒絕過、或 job 的 `denied_before` 有這個技能 → 記成拒絕，guard 記 asked＝False，
+  說明 `denied_again`／`denied_again_turn` 在 `prompts/domain/session.md`）、`denied_skills`；`orchestrator._turn_denied`（這一回合之前的交辦被拒絕過的技能，start 的 `denied`）；
+  `guard._guard_exempt` 派工單解析錯的不問。自我測試 `t_denied_again`、`t_guard_send_parse_error`（交辦與領域 session 43 項；改之前的程式 41／43）；完整的離線測試改之後（21:01）全過，
+  離線基準更新。評測 21:03 開跑（主對話 `AA`、`AB`，真實專案 `ao1～3`，維運 `ao1`）。
+
+### 2026-11-27 第 54 輪的比較
+- **做的**：主對話 `AA`（guard 兩個情境 ×5，兩個模型）、`AB`（e4b 11 個情境 ×3）、真實專案 `ao1～3`、維運 `ao1` 跑完（21:01～22:08），`analysis_settings.json` 沒有變。
+  照第 2 節〈第 54 輪（定案）〉的規則：1、3、4、5 成立；2 的同一回合又問 0 成立，e4b guard_dispatch 4／5 不成立。打開看：（b）不問、評測的派工單假工具不檢查參數。
+  數字在設計筆記 2.97，選項在第 4 節〈使用者這一句話裡拒絕過的動作不再問的比較〉。
+- **接下來**：等使用者決定（A）（B）（C）。
+- **使用者**：「都依你建議」——（A）、架構說明的確認關卡補上。
+
+### 2026-11-27 第 54 輪（續，定案）：評測的派工單假工具比照真的腳本（A）
+- **做的**：做法與規則寫進第 2 節〈第 54 輪（續，定案）〉。
+- **實作**：`evals/chat/scenarios.py` 的 `_workpackage_send`（比照真的腳本）；主對話的自我測試 `t_fixture_send_like_script`（24 項；改之前的評測程式 23／24）；完整的離線測試 22:58 全過、
+  離線基準更新。架構說明（第 3.5 節例外與「這一句話裡拒絕過的不再問」、模組表、第 17 節）照使用者同意的改了。
+
+### 2026-11-27 第 54 輪（續）的比較
+- **做的**：主對話 `AC` 跑完（22:58～23:02），`analysis_settings.json` 沒有變。照第 2 節〈第 54 輪（續，定案）〉的規則都成立：同一回合又問 0、沒有一次沒經過確認就回已送出、
+  26b 5／5、5／5、e4b 5／5、5／5；直接記成拒絕 26b 2 次。數字在設計筆記 2.97。
+- **接下來**：等使用者決定 commit；兩張流程圖（從問題到答案的流程、狀態轉移）的「不同意」那一格要不要補一句。
+
+### 2026-11-27 第 54 輪：留著
+- **使用者**：「可以都依你建議進行」——第 54 輪 commit；兩張流程圖補上；第 9 步先量。另外提出「反問」（原話在第 4 節〈使用者提出：把卡住的部分變成問句（反問）〉），先量看看。
+- **做的**：從問題到答案的流程、狀態轉移兩張圖補上「這一句話裡拒絕過的技能再選：不再問、直接記成拒絕」（本機 PlantUML 產生、打開看過）；第 54 輪 commit（main）；
+  反問的量法寫進第 4 節，跟第 9 步一起量。

diff --git a/prompts/domain/session.md b/prompts/domain/session.md
@@ -2,7 +2,7 @@
 第一則訊息（first；每一項是使用者的原話；這一則之前的對話 context、context_archived、context_turn；上一次的經過 previous）、選了領域之後的技能清單（skills 與它的各段：skills_domain、skills_practice、skills_composites、
 composite_entry、param_*、type_*、skills_tools、skills_shared、tool_entry）、選了技能之後的參數表單（form_composite、form_tool；沒過的交回重填
 form_fix、工具的 args 寫法不對 form_fix_tool 與 reject_args_*、重填還是沒過 form_failed）、每一步的結果（step_head、composite_*（程式算的彙整
-composite_totals）、output_head、result_id）、程式擋下的說明（err_*、not_my_tool）、會改狀態的一步先對照交辦的限制（constraint_check，框架討論紀錄第 49 輪）、回報之前對照交辦的限制（report_constraints，第 50 輪）、
+composite_totals）、output_head、result_id）、程式擋下的說明（err_*、not_my_tool）、會改狀態的一步先對照交辦的限制（constraint_check，框架討論紀錄第 49 輪）、回報之前對照交辦的限制（report_constraints，第 50 輪）、使用者這一句話裡拒絕過的技能再選時直接記成拒絕的說明（denied_again、denied_again_turn，第 54 輪）、
 回報的核對沒過（answers_fix、why_ref_unknown、出處 #N 是收據裡的行號時 why_ref_line、出處是這一回合之前的即時狀態、動作或改過的檔案時 why_stale（框架討論紀錄第 42 輪）；其他原因用 harness/domain.md 的 why_*）、回覆不是 JSON（retry、表單的 retry_form）、
 寫到長度上限被截斷（cut）、對話太長時清掉的舊結果（cleared）、提煉時的「想知道什麼」（anchor；使用者前面的話 anchor_earlier）。
 agent_core/composite.py 也用這份：合約沒過的說明（reject_*）、要領域 session 決定的事（need_*）、骨架裡有要確認的動作（guard_in_skill）。
@@ -308,3 +308,9 @@ args 照抄了寫法裡的 {marks}（沒有換成值）
 <!-- @anchor_earlier -->
 
 使用者前面說的（項目裡的指代照這幾句）：{words}
+
+<!-- @denied_again -->
+使用者剛剛拒絕過 {skill}（第 {n} 步）：這一句話裡同一個技能不再問使用者，這一步沒有問、也沒有執行，系統狀態沒有改變。不要換參數再送；照實回報使用者拒絕了，要換做法等使用者下一句話說明。
+
+<!-- @denied_again_turn -->
+使用者在這一句話之前的交辦裡拒絕過 {skill}：這一句話裡同一個技能不再問使用者，這一步沒有問、也沒有執行，系統狀態沒有改變。不要換參數再送；照實回報使用者拒絕了，要換做法等使用者下一句話說明。
